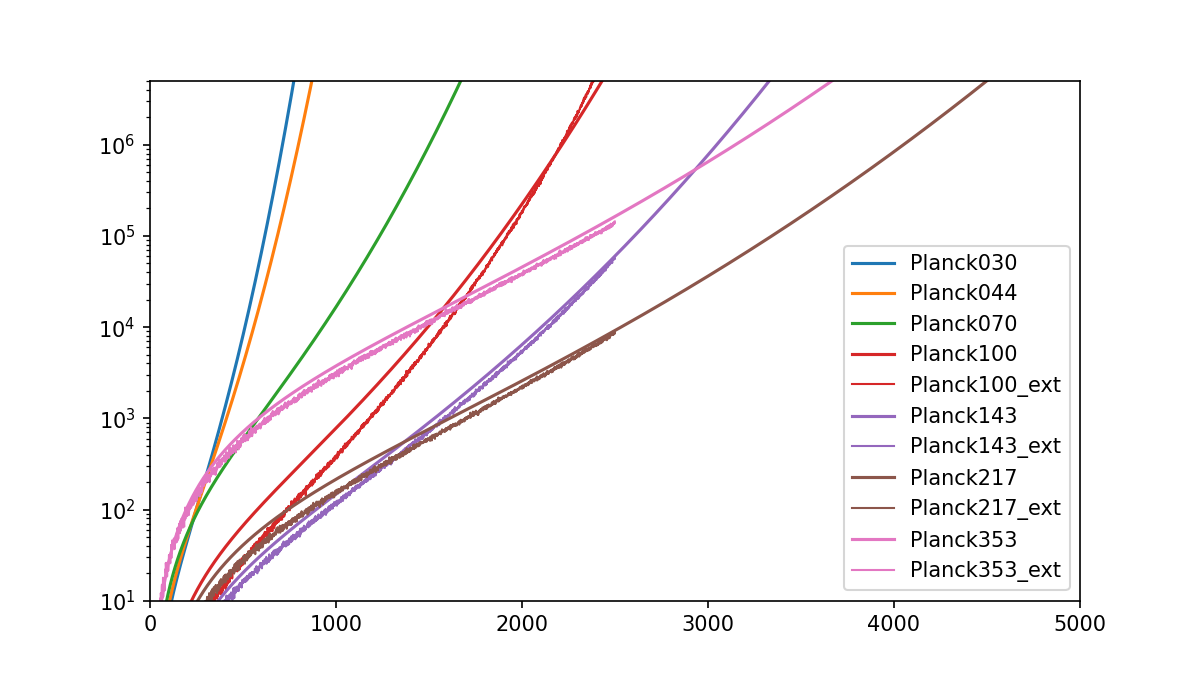
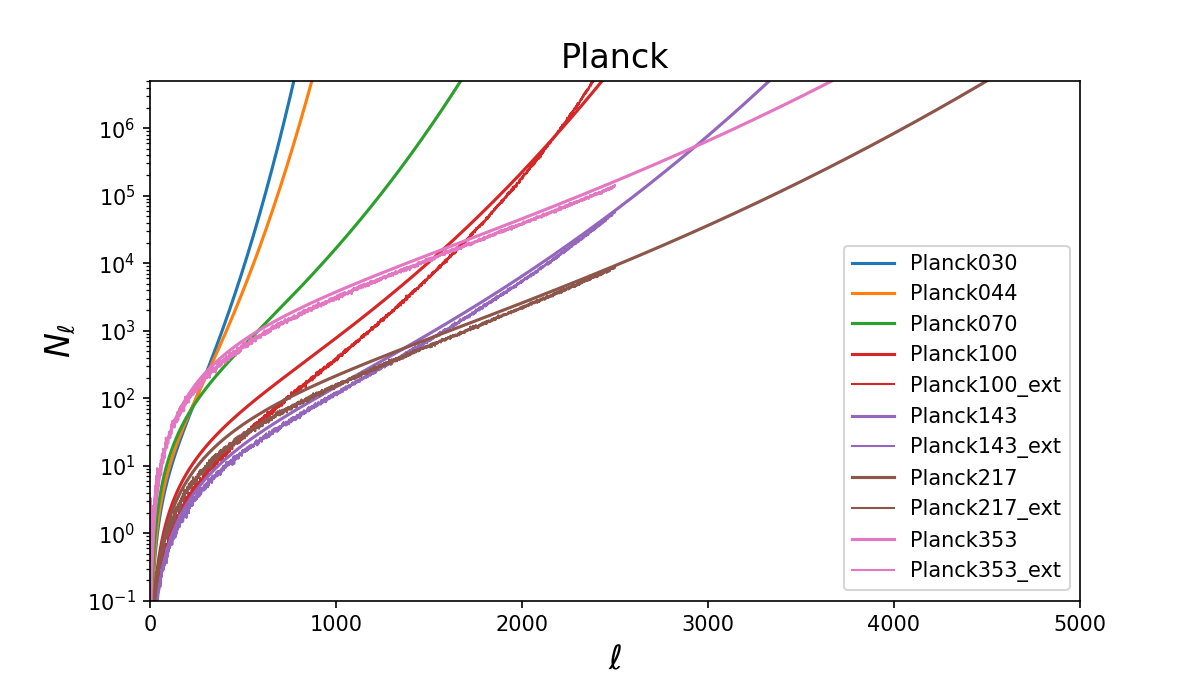
Add SO LAT noise

diff --git a/compute_Nls.py b/compute_Nls.py
@@ -18,13 +18,14 @@ from biref_forecasts import utils
 SAVE_PATH = 'data/Nls'
 os.makedirs(SAVE_PATH, exist_ok=True)
 
-EXPERIMENTS = ['Planck']
+EXPERIMENTS = ['Planck', 'SO LAT']
 
 BANDS = {
-    'Planck': ['030', '044', '070', '100', '143', '217', '353']
+    'Planck': ['030', '044', '070', '100', '143', '217', '353'],
+    'SO LAT': ['027', '039', '093', '145', '225', '280'],
 }
 
-# RMS polarization noise in uK.arcmin
+# RMS polarization noise in uK.deg
 RMS = {
     'Planck': {
         '030': 3.5,
@@ -35,9 +36,14 @@ RMS = {
         '217': 1.75,
         '353': 7.31,
     },
-    # 'SO': {
-    #     
-    # }
+    'SO LAT': {         # SO LAT numbers are in uK.arcmin
+        '027': 71 / 60,
+        '039': 36 / 60,
+        '093': 8.0 / 60,
+        '145': 10 / 60,
+        '225': 22 / 60,
+        '280': 54 / 60,
+    },
 }
 
 # FWHM beam in arcmin
@@ -50,24 +56,45 @@ FWHM = {
         '143': 7.22,
         '217': 4.90,
         '353': 4.92,
-    }
+    },
+    'SO LAT': {
+        '027': 7.4,
+        '039': 5.1,
+        '093': 2.2,
+        '145': 1.4,
+        '225': 1.0,
+        '280': 0.9,
+    },
 }
 
-L_KNEE = {}
+L_KNEE = {
+    'SO LAT': {
+        '027': 700,
+        '039': 700,
+        '093': 700,
+        '145': 700,
+        '225': 700,
+        '280': 700,
+    },
+}
 L_KNEE['Planck'] = {band: None for band in BANDS['Planck']}
 
 
 SPECTRA_TO_COMPARE = {
     'Planck': {
         band: f'data/spectra/NPIPE_BIREF/Dls_{band}x{band}_noise.dat' for band in ['100', '143', '217', '353']
-    }
+    },
+    'SO LAT': {
+        band: None for band in BANDS['SO LAT']
+    },
 }
 SPECTRA_TO_COMPARE['Planck']['030'] = None
 SPECTRA_TO_COMPARE['Planck']['044'] = None
 SPECTRA_TO_COMPARE['Planck']['070'] = None
 
 COLORS = {
-    'Planck': {band: f'C{i}' for i, band in enumerate(BANDS["Planck"])}
+    'Planck': {band: f'C{i}' for i, band in enumerate(BANDS["Planck"])},
+    'SO LAT': {band: f'C{i}' for i, band in enumerate(BANDS["SO LAT"])},
 }
 
 def compute_Nls(rms:float, fwhm:float, l_knee:int) -> dict[np.ndarray]:
@@ -80,6 +107,12 @@ def compute_Nls(rms:float, fwhm:float, l_knee:int) -> dict[np.ndarray]:
         fac = ls * (ls + 1) / (2 * np.pi)
         if (spec in ['EE', 'BB']):
             mean[spec] = np.full_like(ls, (rms ** 2) * ((np.pi / 180) ** 2), dtype=float) * fac
+            if l_knee is not None:
+                # From SO forecasts paper 1808.07445 (eq. 1)
+                # TODO put alpha and N_red_ratio as args
+                alpha = -1.4
+                N_red_ratio = 1.
+                mean[spec] *= (1 + N_red_ratio * (ls / l_knee)**alpha) 
         else:
             # Only polarization noise and assumes no cross noise
             mean[spec] = np.zeros_like(ls, dtype=float)
@@ -98,12 +131,18 @@ for exp in EXPERIMENTS:
         so_spectra.write_ps(f'{SAVE_PATH}/Nl_{exp}_{band}.dat', ls, Nls, type='Dl', spectra=utils.spectra_pspy)
         ax.plot(ls, Nls['EE'], label=f'{exp}{band}', color=COLORS[exp][band])
         if SPECTRA_TO_COMPARE[exp][band] is not None:
-            ls_comp, Nls_comp = so_spectra.read_ps(SPECTRA_TO_COMPARE[exp][band], spectra=utils.spectra_pspy)
-            ax.plot(ls_comp, Nls_comp['EE'], label=f'{exp}{band}_ext', color=COLORS[exp][band], linewidth=1)
+            try:
+                ls_comp, Nls_comp = so_spectra.read_ps(SPECTRA_TO_COMPARE[exp][band], spectra=utils.spectra_pspy)
+                ax.plot(ls_comp, Nls_comp['EE'], label=f'{exp}{band}_ext', color=COLORS[exp][band], linewidth=1)
+            except:
+                print(f'{SPECTRA_TO_COMPARE[exp][band]} not found.')
     ax.set_xlim(0, 5000)
-    ax.set_ylim(10, 5000000)
+    ax.set_ylim(.1, 5000000)
     ax.set_yscale('log')
     ax.legend()
+    ax.set_xlabel(r'$\ell$', fontsize=16)
+    ax.set_ylabel(r'$N_\ell$', fontsize=16)
+    ax.set_title(f'{exp}', fontsize=16)
     plt.savefig(f'plots/Nls_{exp}.png')
     
     plt.clf()
